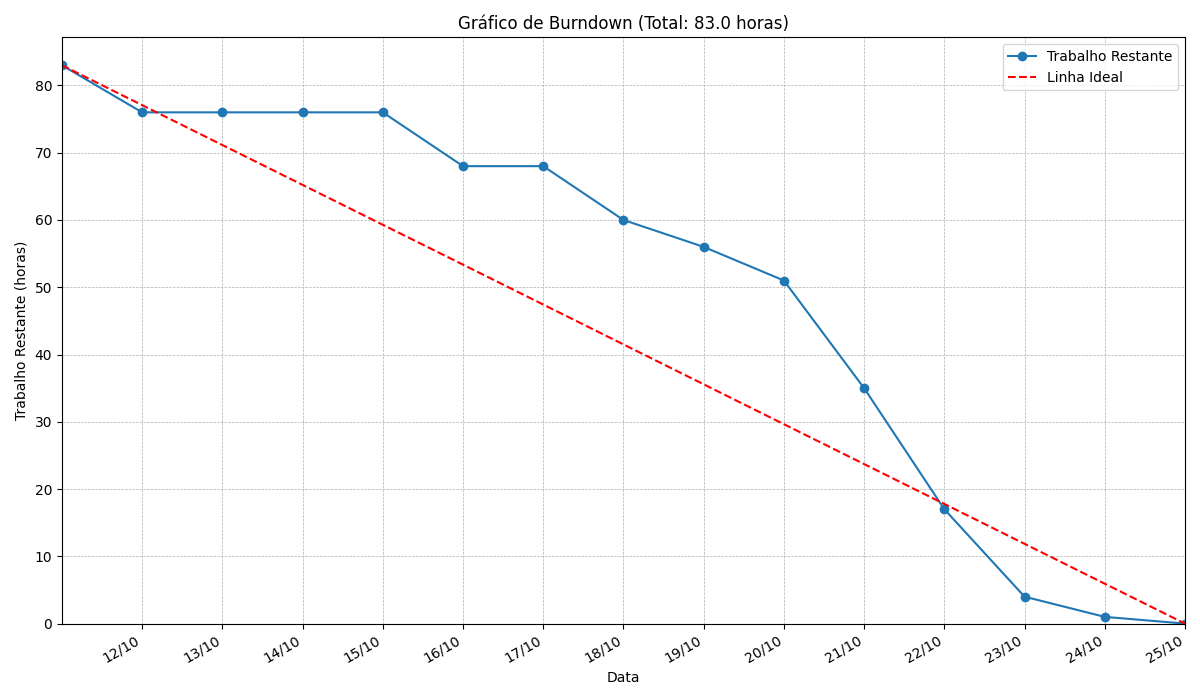
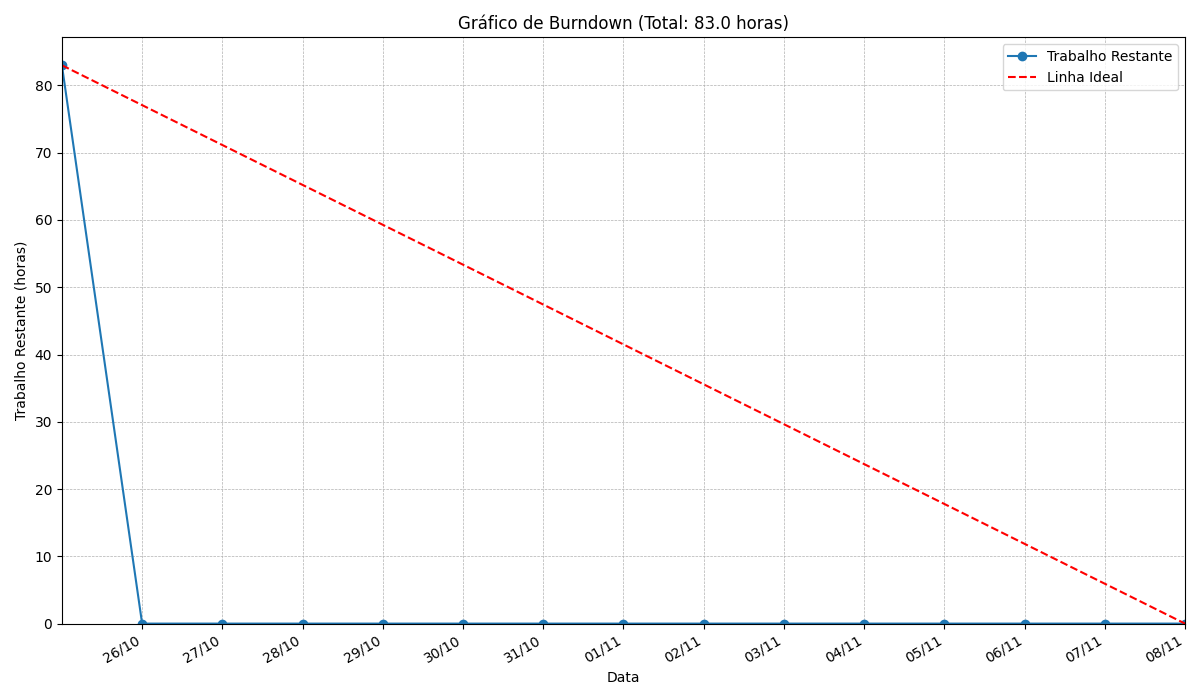
yjgfkhjjkh

diff --git a/Projects/bobeiras/burndown5.py b/Projects/bobeiras/burndown5.py
@@ -1,0 +1,104 @@
+import matplotlib.pyplot as plt
+import matplotlib.dates as mdates
+import numpy as np
+import datetime
+# Movimentação de Tropas: 8:
+# 1. Dados das Tarefas
+# Contém APENAS as 15 tarefas da última imagem
+tasks_data = """
+Movimentação de Tropas: 8: 2025-11-07
+Ajuste para ataque e alocação serem com clique no mapa: 3: 2025-10-28
+Pesquisa de tecnica aplicada na IA: 8: 2025-10-30
+Apresentação das possibilidades para IA: 2: 2025-11-01
+Criação da classe da IA: 13: 2025-11-06
+Implementação de funções auxiliares da IA no GameManager.JS: 3: 2025-11-08
+Implementação de teste para WARIA.js: 3: 2025-11-08
+"""
+
+# 2. Definição do Período do Projeto
+start_date_str = '2025-10-26' # Primeiro dia REAL do projeto
+end_date_str = '2025-11-08'   # Último dia REAL do projeto
+
+start_date = datetime.date.fromisoformat(start_date_str)
+end_date = datetime.date.fromisoformat(end_date_str)
+
+# Lista de datas REAIS do projeto (de 28/09 a 11/10)
+project_dates = [start_date + datetime.timedelta(days=i) for i in range((end_date - start_date).days + 1)]
+
+# Define o "Dia 0" como o dia anterior ao início
+start_point_date = start_date - datetime.timedelta(days=1) # 27/09
+
+# Lista de datas para PLOTAR (de 27/09 a 11/10)
+plot_dates = [start_point_date] + project_dates
+
+# 3. Processamento dos Dados
+estimated_durations = []
+completion_dates = []
+
+for line in tasks_data.strip().split('\n'):
+    try:
+        parts = line.rsplit(':', 2)
+        name = parts[0].strip()
+        estimated = float(parts[1].strip())
+        completion_str = parts[2].strip()
+
+        estimated_durations.append(estimated)
+        
+        if completion_str:
+            completion_dates.append(datetime.date.fromisoformat(completion_str))
+        else:
+            completion_dates.append(None)
+            
+    except (ValueError, IndexError):
+        print(f"Pulando linha mal formatada: {line}")
+        continue
+
+# 4. Cálculos para o Gráfico
+total_estimated_work = sum(estimated_durations)
+remaining_work_corrected = []
+
+for plot_day in plot_dates:
+    if plot_day == start_point_date:
+        remaining_work_corrected.append(total_estimated_work)
+        continue
+
+    completed_work_up_to_date = 0
+    for i, completion_date in enumerate(completion_dates):
+        if completion_date is not None and completion_date <= plot_day:
+            completed_work_up_to_date += estimated_durations[i]
+            
+    remaining_work_corrected.append(total_estimated_work - completed_work_up_to_date)
+
+ideal_work = np.linspace(total_estimated_work, 0, len(plot_dates))
+
+# 5. Geração do Gráfico
+plt.figure(figsize=(12, 7))
+
+plt.plot(plot_dates, remaining_work_corrected, marker='o', linestyle='-', label='Trabalho Restante')
+plt.plot(plot_dates, ideal_work, linestyle='--', color='red', label='Linha Ideal')
+
+# Formatação dos eixos
+ax = plt.gca()
+ax.xaxis.set_major_formatter(mdates.DateFormatter('%d/%m'))
+
+# Formatação do eixo X
+ax.set_xticks(project_dates)
+ax.set_xlim(left=start_point_date, right=end_date)
+
+# Formatação do eixo Y
+ax.set_ylim(bottom=0, top=total_estimated_work * 1.05)
+
+plt.gcf().autofmt_xdate()
+
+plt.title(f'Gráfico de Burndown (Total: {total_estimated_work} horas)')
+plt.xlabel('Data')
+plt.ylabel('Trabalho Restante (horas)')
+plt.grid(True, which='both', linestyle='--', linewidth=0.5)
+plt.legend()
+plt.tight_layout()
+
+plt.savefig('burndown_sprint5.png')
+
+print("Gráfico 'burndown_sprint5.png' foi gerado com sucesso!")
+print(f"Total de horas estimadas (15 tarefas): {total_estimated_work}")
+print("O eixo Y começa em 0 e o eixo X começa na primeira data.")

diff --git a/Projects/bobeiras/burndown6.py b/Projects/bobeiras/burndown6.py
@@ -1,0 +1,103 @@
+import matplotlib.pyplot as plt
+import matplotlib.dates as mdates
+import numpy as np
+import datetime
+# Movimentação de Tropas: 8:
+# 1. Dados das Tarefas
+# Contém APENAS as 15 tarefas da última imagem
+tasks_data = """
+Atribuição de objetivos: 5: 2025-10-20
+Apresentação de acompanhamento II: 8: 2025-10-18
+Visualização dos nomes do territórios: 3: 2025-10-24
+Ataque: 13: 2025-10-22
+Criar conjunto de objetivos disponíveis: 5: 2025-10-12
+Visualização dos territórios de cada player (contorno no mapa): 8: 2025-10-21
+"""
+
+# 2. Definição do Período do Projeto
+start_date_str = '2025-11-09' # Primeiro dia REAL do projeto
+end_date_str = '2025-12-01'   # Último dia REAL do projeto
+
+start_date = datetime.date.fromisoformat(start_date_str)
+end_date = datetime.date.fromisoformat(end_date_str)
+
+# Lista de datas REAIS do projeto (de 28/09 a 11/10)
+project_dates = [start_date + datetime.timedelta(days=i) for i in range((end_date - start_date).days + 1)]
+
+# Define o "Dia 0" como o dia anterior ao início
+start_point_date = start_date - datetime.timedelta(days=1) # 27/09
+
+# Lista de datas para PLOTAR (de 27/09 a 11/10)
+plot_dates = [start_point_date] + project_dates
+
+# 3. Processamento dos Dados
+estimated_durations = []
+completion_dates = []
+
+for line in tasks_data.strip().split('\n'):
+    try:
+        parts = line.rsplit(':', 2)
+        name = parts[0].strip()
+        estimated = float(parts[1].strip())
+        completion_str = parts[2].strip()
+
+        estimated_durations.append(estimated)
+        
+        if completion_str:
+            completion_dates.append(datetime.date.fromisoformat(completion_str))
+        else:
+            completion_dates.append(None)
+            
+    except (ValueError, IndexError):
+        print(f"Pulando linha mal formatada: {line}")
+        continue
+
+# 4. Cálculos para o Gráfico
+total_estimated_work = sum(estimated_durations)
+remaining_work_corrected = []
+
+for plot_day in plot_dates:
+    if plot_day == start_point_date:
+        remaining_work_corrected.append(total_estimated_work)
+        continue
+
+    completed_work_up_to_date = 0
+    for i, completion_date in enumerate(completion_dates):
+        if completion_date is not None and completion_date <= plot_day:
+            completed_work_up_to_date += estimated_durations[i]
+            
+    remaining_work_corrected.append(total_estimated_work - completed_work_up_to_date)
+
+ideal_work = np.linspace(total_estimated_work, 0, len(plot_dates))
+
+# 5. Geração do Gráfico
+plt.figure(figsize=(12, 7))
+
+plt.plot(plot_dates, remaining_work_corrected, marker='o', linestyle='-', label='Trabalho Restante')
+plt.plot(plot_dates, ideal_work, linestyle='--', color='red', label='Linha Ideal')
+
+# Formatação dos eixos
+ax = plt.gca()
+ax.xaxis.set_major_formatter(mdates.DateFormatter('%d/%m'))
+
+# Formatação do eixo X
+ax.set_xticks(project_dates)
+ax.set_xlim(left=start_point_date, right=end_date)
+
+# Formatação do eixo Y
+ax.set_ylim(bottom=0, top=total_estimated_work * 1.05)
+
+plt.gcf().autofmt_xdate()
+
+plt.title(f'Gráfico de Burndown (Total: {total_estimated_work} horas)')
+plt.xlabel('Data')
+plt.ylabel('Trabalho Restante (horas)')
+plt.grid(True, which='both', linestyle='--', linewidth=0.5)
+plt.legend()
+plt.tight_layout()
+
+plt.savefig('burndown_sprint4.png')
+
+print("Gráfico 'burndown_sprint4.png' foi gerado com sucesso!")
+print(f"Total de horas estimadas (15 tarefas): {total_estimated_work}")
+print("O eixo Y começa em 0 e o eixo X começa na primeira data.")
